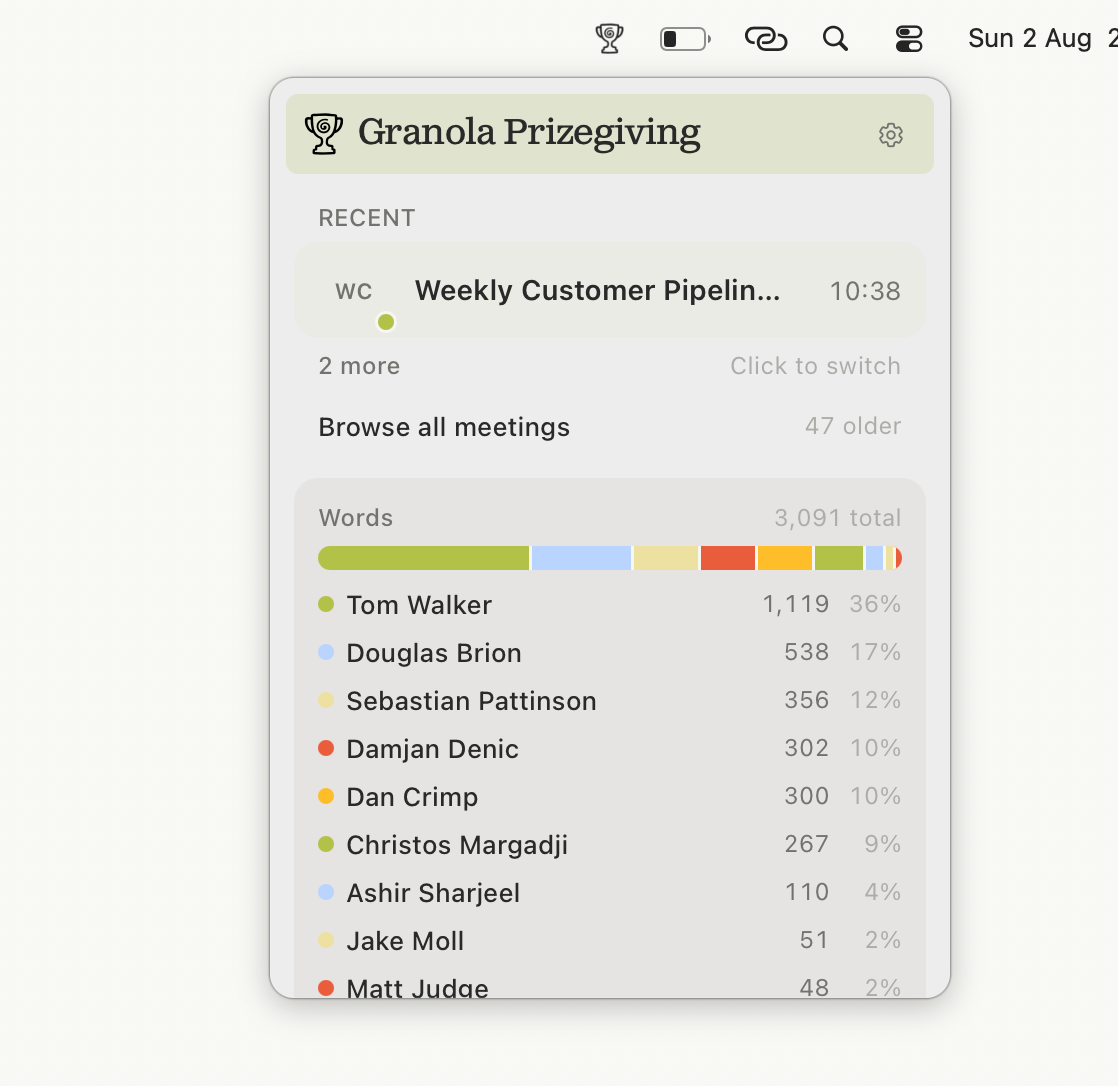
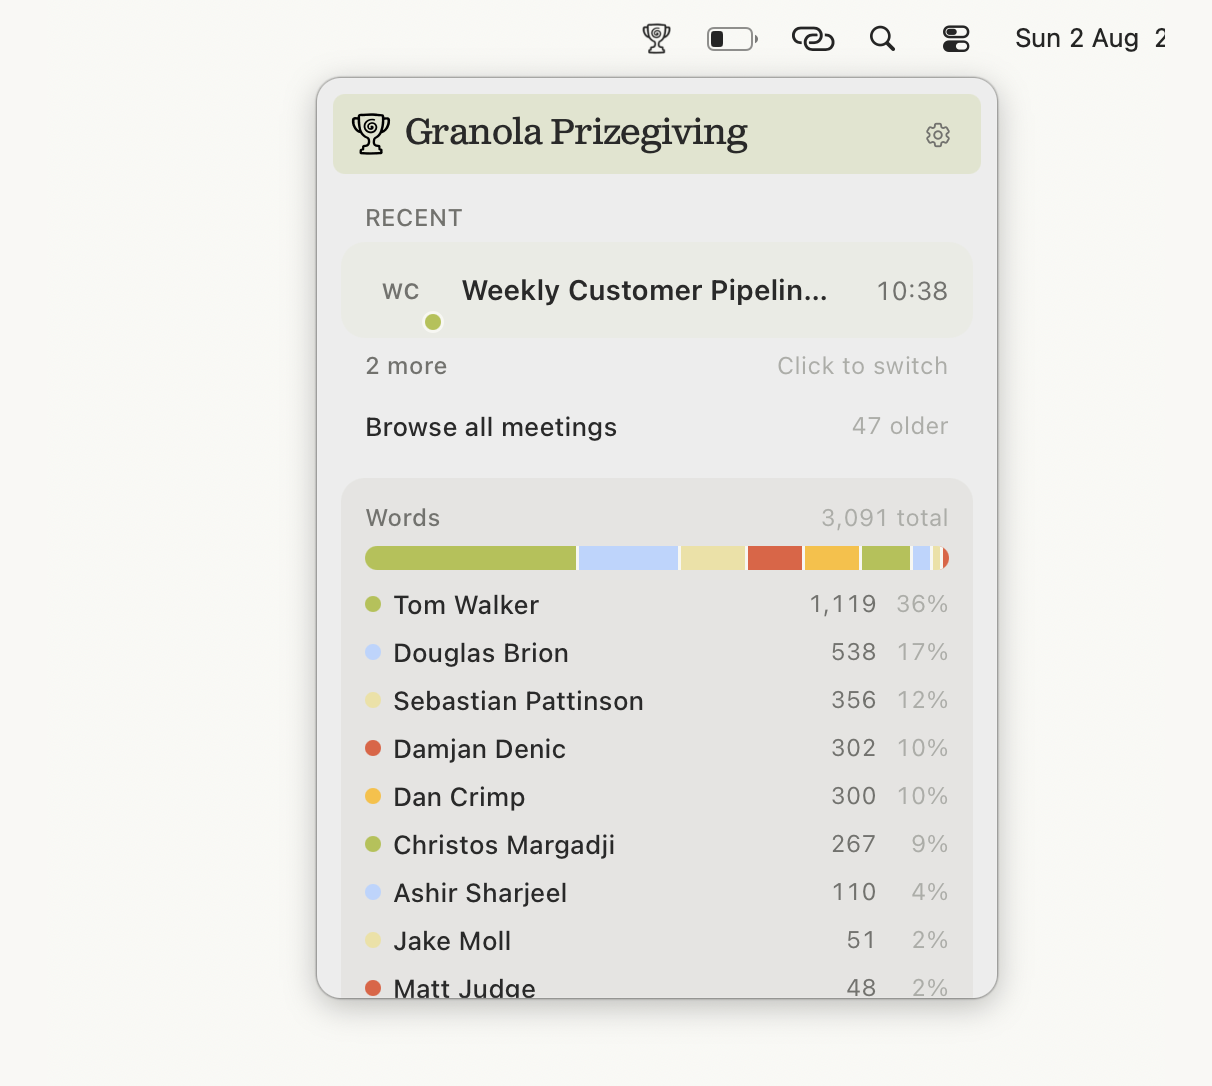
refactor: :sparkles: Update README

diff --git a/README.md b/README.md
@@ -8,15 +8,20 @@
   <em>A macOS menu bar app that turns meeting transcripts into tongue-in-cheek talk-time awards.</em>
 </p>
 
-<p align="center">
-  <img src="docs/leaderboard.png" alt="Talk-time leaderboard" width="420" />
-  &nbsp;&nbsp;
-  <img src="docs/awards.png" alt="Prizegiving awards for a meeting" width="420" />
-</p>
-
-<p align="center">
-  <sub>Talk-time leaderboard · Awards</sub>
-</p>
+<table align="center">
+  <tr>
+    <td align="center" width="50%">
+      <img src="docs/leaderboard.png" alt="Talk-time leaderboard" width="420" />
+      <br />
+      <sub>Talk-time leaderboard</sub>
+    </td>
+    <td align="center" width="50%">
+      <img src="docs/awards.png" alt="Prizegiving awards for a meeting" width="420" />
+      <br />
+      <sub>Awards</sub>
+    </td>
+  </tr>
+</table>
 
 ---
 
